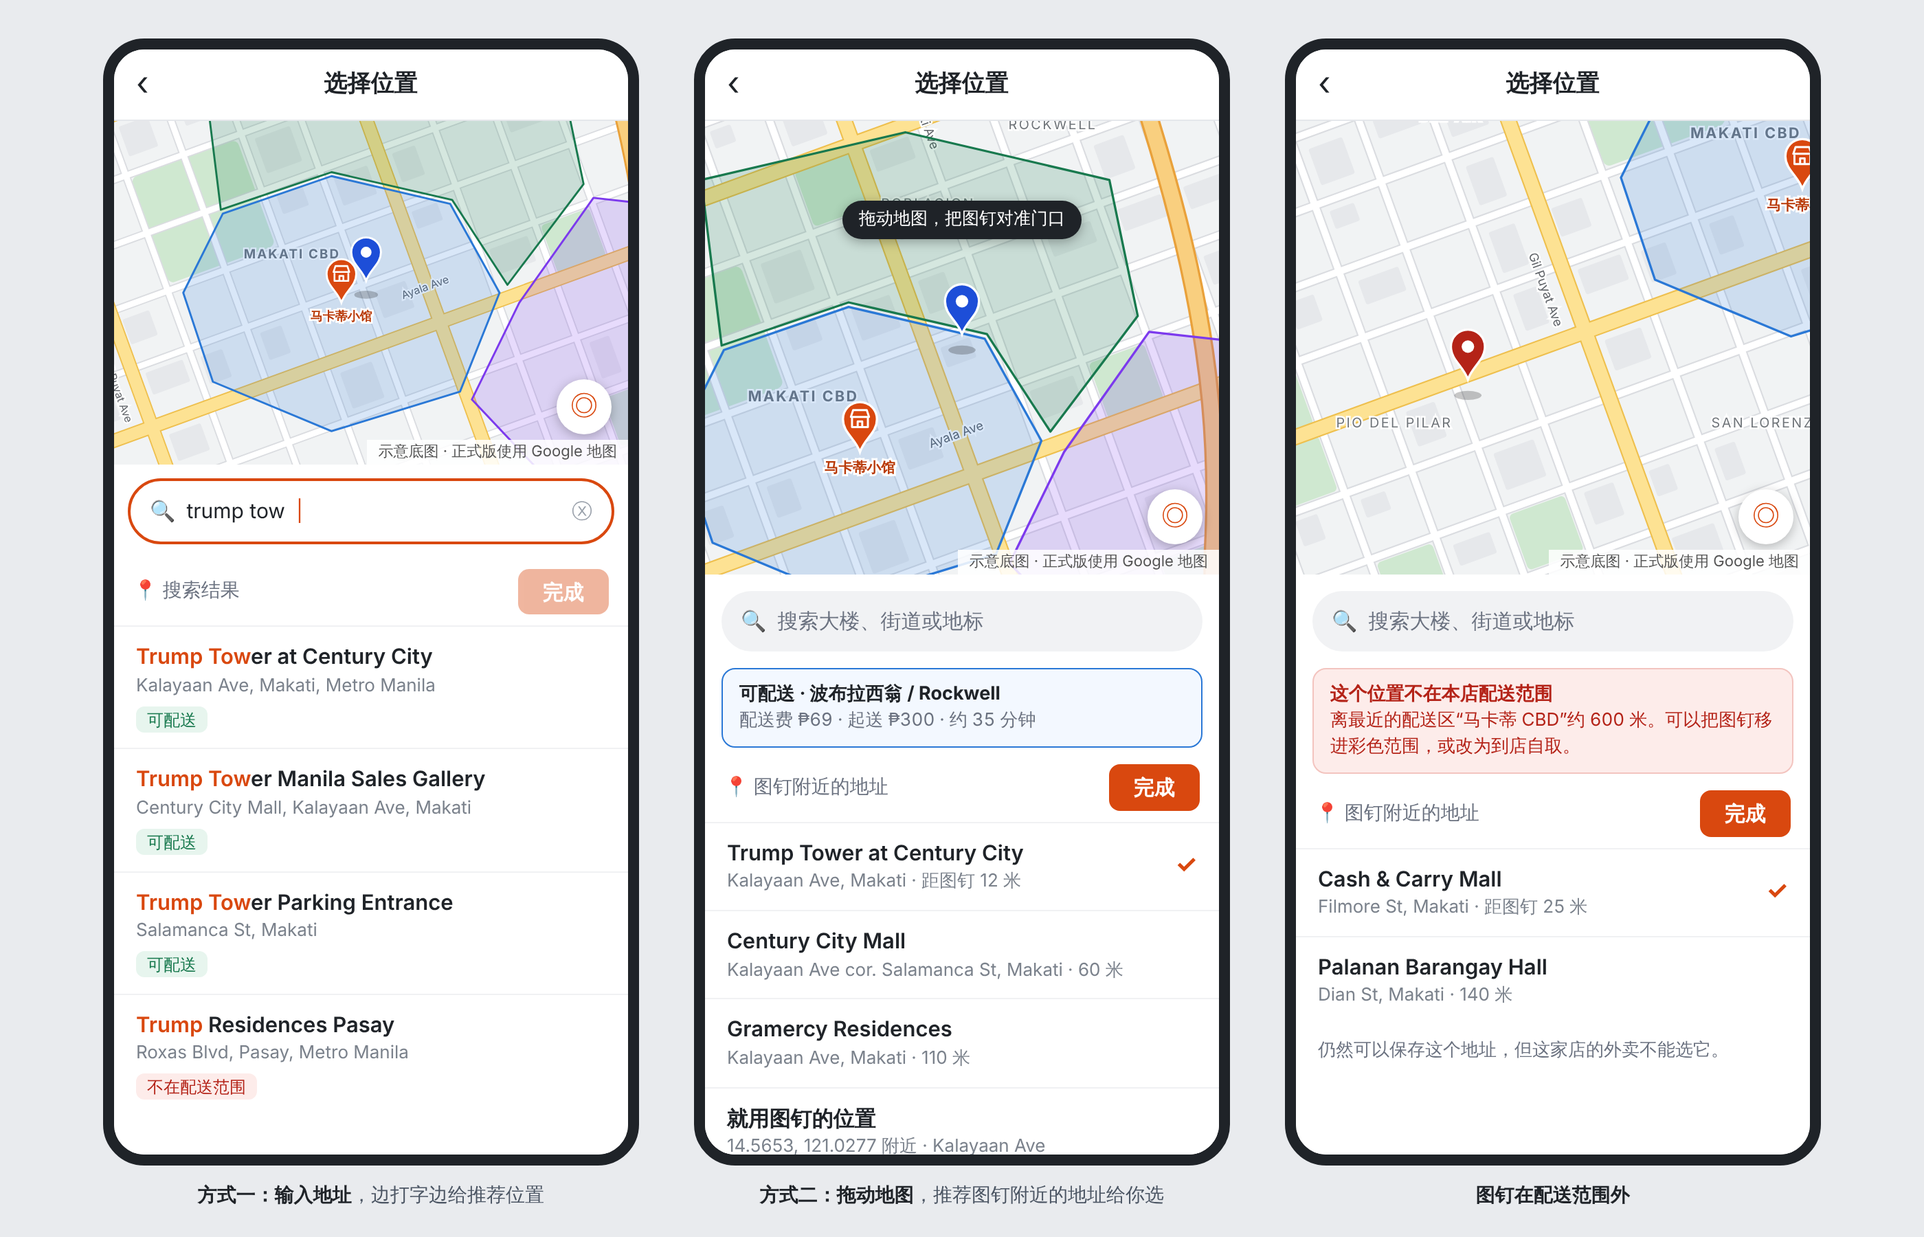
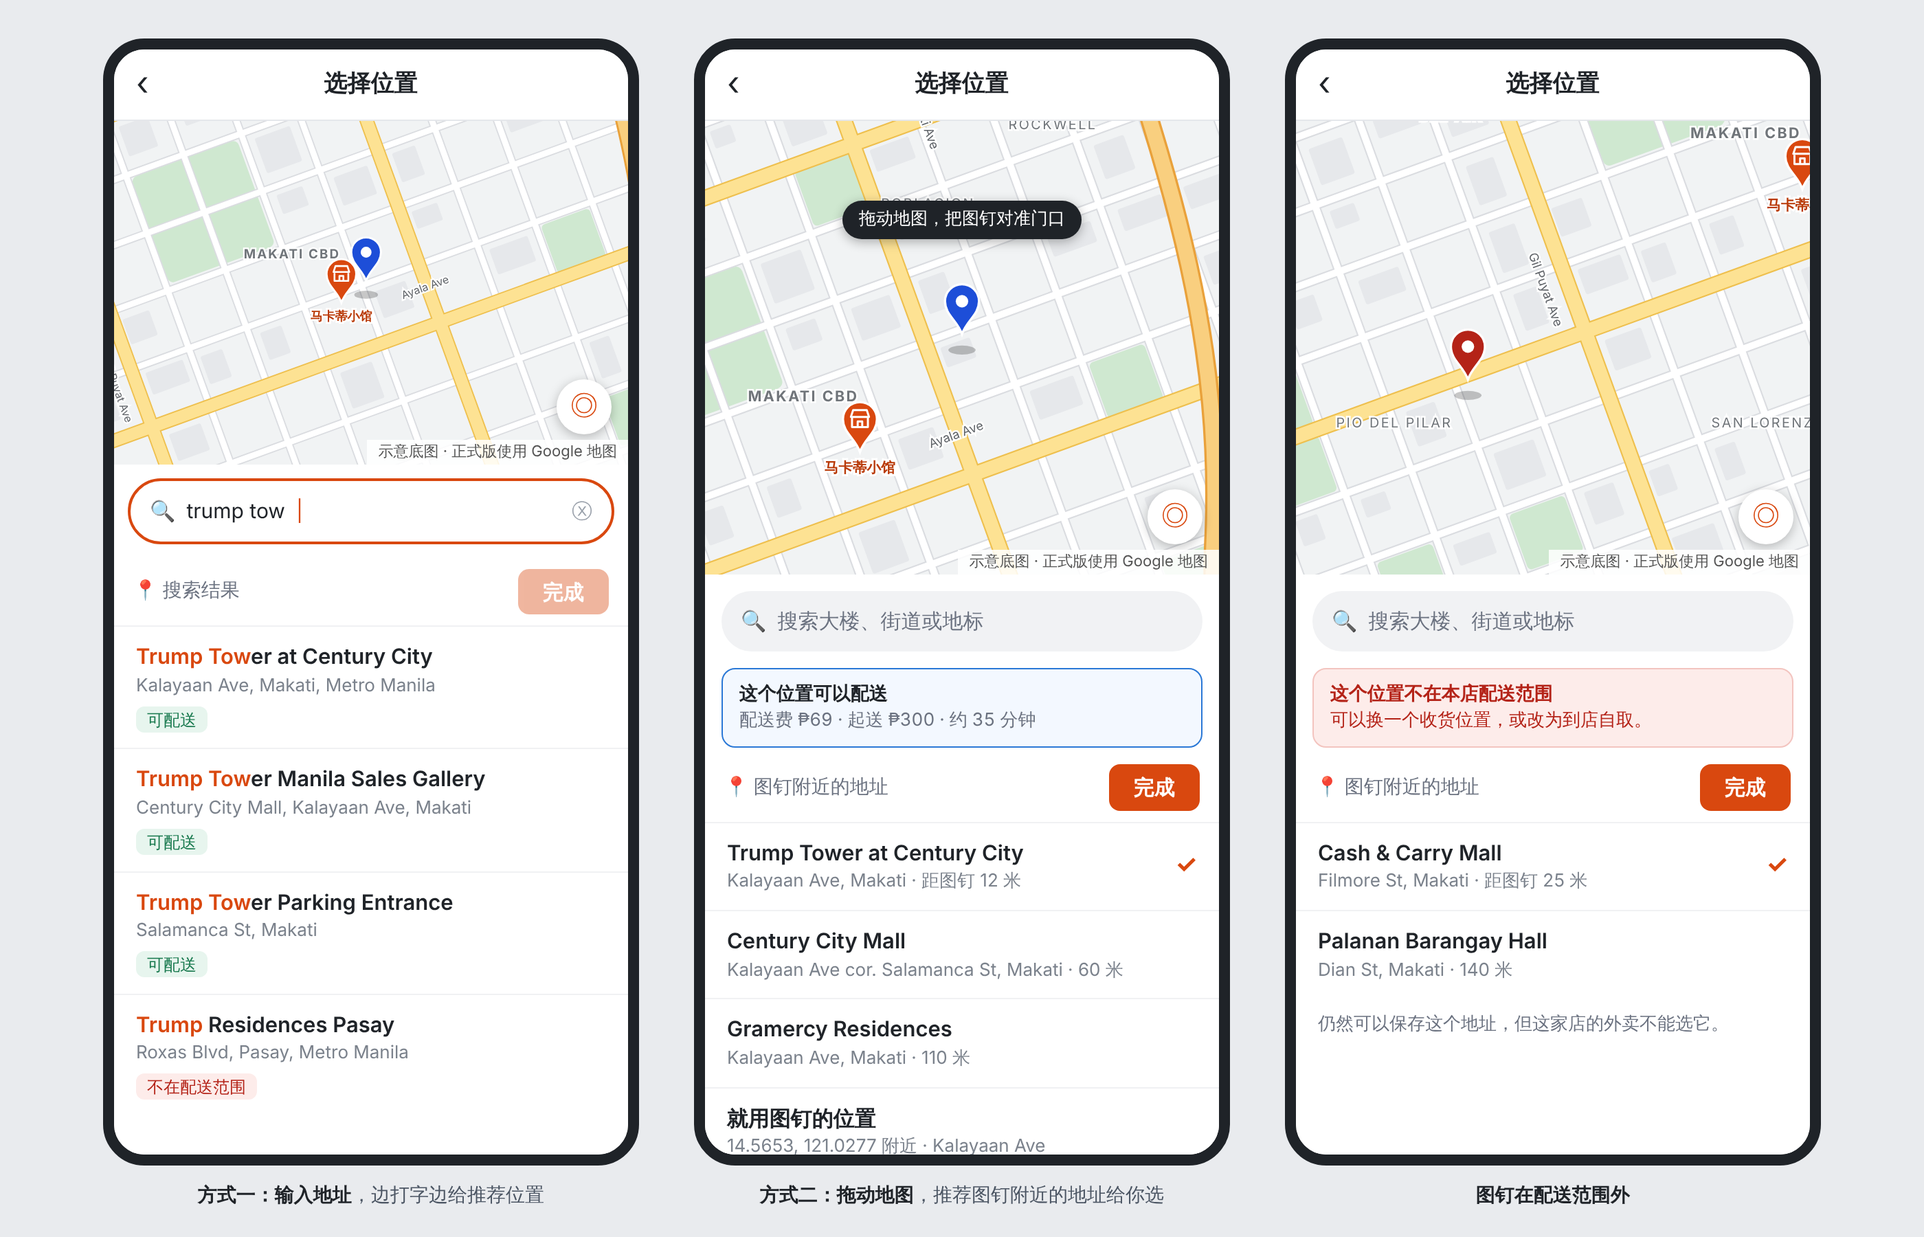
方案 v0.2：顾客端地图不显示配送区的圈、区名和距离
Claude-Session: https://claude.ai/code/session_0171QGWJ256qx9V7u3WcEYX4

diff --git a/docs/checkout-prototype/index.html b/docs/checkout-prototype/index.html
@@ -14,7 +14,6 @@ var maps = [];
 function mapBox(id, h, inner) { return '<div class="map" style="height:' + h + '"><svg class="base" id="' + id + '"></svg>' + (inner || '') + '<div class="attrib">示意底图 · 正式版使用 Google 地图</div></div>'; }
 function drawMap(id, view, at, color) { maps.push(function () {
   var svg = document.getElementById(id); baseMap(svg, view);
-  ZONES.slice().reverse().forEach(function (z) { drawZone(svg, z, { label: false }); });
   pin(svg, STORE, { text: '马卡蒂小馆' }); pin(svg, at, { color: color, icon: 'dot', lift: true });
 }); }
 function phone(body, cap) { return '<div><div class="phone">' + body + '</div><div class="caption">' + cap + '</div></div>'; }
@@ -35,7 +34,7 @@ function login(sent) {
 var ITEMS = [['🍜', '#ffe8cc', '招牌牛肉面', '大份 · 加辣', 1, 268], ['🥟', '#e3f2e1', '鲜肉煎饺', '6 个', 2, 240], ['🥤', '#e0ecff', '冻柠茶', '少冰', 1, 85]];
 function addrCard(sel, pickup) {
   var top = sel
-    ? '<div class="addr row"><div class="grow"><div class="row" style="gap:6px"><span class="tag brand">家</span><b style="font-size:17px">Trump Tower at Century City</b></div><div class="small" style="margin-top:3px">40 楼 4001 · Kalayaan Ave, Makati</div><div class="small muted num">陈先生 +63 917 555 0123</div><div style="margin-top:6px"><span class="tag ok">可配送 · 波布拉西翁 / Rockwell</span></div></div><span class="chev">›</span></div>'
+    ? '<div class="addr row"><div class="grow"><div class="row" style="gap:6px"><span class="tag brand">家</span><b style="font-size:17px">Trump Tower at Century City</b></div><div class="small" style="margin-top:3px">40 楼 4001 · Kalayaan Ave, Makati</div><div class="small muted num">陈先生 +63 917 555 0123</div><div style="margin-top:6px"><span class="tag ok">可配送 · 配送费 ₱69</span></div></div><span class="chev">›</span></div>'
     : '<div class="addr row between"><span class="pick">选择收货地址</span><span class="chev">›</span></div>';
   return '<div class="card">' + top +
     '<div class="opt' + (sel ? ' on' : '') + '"><b>立即配送</b><span class="v">' + (sel ? '约 35 分钟送达' : '请选择地址') + '</span></div>' +
@@ -63,8 +62,8 @@ function checkout(sel) {
 var ADDRS = [
   ['on', '家', 'Trump Tower at Century City', '门牌号：40 楼 4001', '陈先生 +63 917 555 0123', '<span class="tag ok">可配送 · 配送费 ₱69</span>'],
   ['', '公司', 'Ayala Tower One', '门牌号：12 楼 1203', '陈先生 +63 917 555 0123', '<span class="tag ok">可配送 · 配送费 ₱49</span>'],
-  ['', '', 'One Rockwell East Tower', '门牌号：大堂前台', 'Brian +63 917 555 0123', '<span class="tag warn">边界附近 · 按“波布拉西翁 / Rockwell”配送 ₱69</span>'],
-  ['no', '学校', '2658 Tramo St, Pasay', '门牌号：Brgy 51', 'Brian +63 966 802 9171', '<span class="tag bad">不在本店配送范围 · 距最近配送区约 2.1 公里</span>']
+  ['', '', 'One Rockwell East Tower', '门牌号：大堂前台', 'Brian +63 917 555 0123', '<span class="tag ok">可配送 · 配送费 ₱69</span>'],
+  ['no', '学校', '2658 Tramo St, Pasay', '门牌号：Brgy 51', 'Brian +63 966 802 9171', '<span class="tag bad">不在本店配送范围</span>']
 ];
 function addrRows() {
   return ADDRS.map(function (a) {
@@ -81,7 +80,7 @@ function formBody(filled, noPhoto) {
   return '<div class="card" style="padding:4px 14px">' +
     '<div class="frow"><span class="l">收货人</span><div class="grow">' + (f ? '陈' : '<span class="ph">请输入收货人称呼</span>') + '<div class="row small" style="margin-top:10px;gap:6px"><span class="ck on">✓</span>先生 <span class="ck" style="margin-left:14px"></span>女士</div></div></div>' +
     '<div class="frow"><span class="l">联系电话</span><div class="grow num"><b style="font-weight:600">+63</b>&nbsp; 917 555 0123<div class="hint">默认用登录的手机号，可以改成别人的</div></div></div>' +
-    '<div class="frow"><span class="l">收货地址</span><div class="grow">' + (f ? '<b>Trump Tower at Century City</b><div class="small muted">Kalayaan Ave, Makati, Metro Manila</div><div style="margin-top:4px"><span class="tag ok">可配送 · 波布拉西翁 / Rockwell</span></div>' : '<span class="ph">在地图上选择收货地址</span>') + '</div><span class="chev">›</span></div>' +
+    '<div class="frow"><span class="l">收货地址</span><div class="grow">' + (f ? '<b>Trump Tower at Century City</b><div class="small muted">Kalayaan Ave, Makati, Metro Manila</div><div style="margin-top:4px"><span class="tag ok">可配送 · 配送费 ₱69</span></div>' : '<span class="ph">在地图上选择收货地址</span>') + '</div><span class="chev">›</span></div>' +
     '<div class="frow"><span class="l">门牌号</span><div class="grow">' + (f ? '40 楼 4001' : '<span class="ph">楼层、房号（详细地址）</span>') + '</div></div>' +
     '<div class="frow"><span class="l">骑手备注</span><div class="grow">' + (f ? '到了打电话，不要按门铃' : '<span class="ph">（选填）怎么找到你</span>') + '</div></div>' +
     '<div class="frow"><span class="l">微信号</span><div class="grow"><span class="ph">（选填）电话打不通时联系</span></div></div>' +
@@ -111,7 +110,7 @@ function mapPick(mode) {
     drawMap(id, '330 98 480 400', [570, 298], '#1d4ed8');
     h += mapBox(id, '330px', '<div class="bubble" style="top:58px">拖动地图，把图钉对准门口</div><div class="locate">◎</div>') +
       '<div style="background:#fff;flex:1"><div class="srch">🔍 <span class="muted">搜索大楼、街道或地标</span></div>' +
-      '<div class="zonebar ok"><b>可配送 · 波布拉西翁 / Rockwell</b><div class="small muted num">配送费 ₱69 · 起送 ₱300 · 约 35 分钟</div></div>' +
+      '<div class="zonebar ok"><b>这个位置可以配送</b><div class="small muted num">配送费 ₱69 · 起送 ₱300 · 约 35 分钟</div></div>' +
       '<div class="listhd"><span>📍 图钉附近的地址</span><span class="done">完成</span></div>' +
       place('Trump Tower at Century City', 'Kalayaan Ave, Makati · 距图钉 12 米', true) +
       place('Century City Mall', 'Kalayaan Ave cor. Salamanca St, Makati · 60 米') +
@@ -121,7 +120,7 @@ function mapPick(mode) {
     drawMap(id, '20 330 480 400', [185, 570], '#b42318');
     h += mapBox(id, '330px', '<div class="locate">◎</div>') +
       '<div style="background:#fff;flex:1"><div class="srch">🔍 <span class="muted">搜索大楼、街道或地标</span></div>' +
-      '<div class="zonebar bad"><b>这个位置不在本店配送范围</b><div class="small num">离最近的配送区“马卡蒂 CBD”约 600 米。可以把图钉移进彩色范围，或改为到店自取。</div></div>' +
+      '<div class="zonebar bad"><b>这个位置不在本店配送范围</b><div class="small num">可以换一个收货位置，或改为到店自取。</div></div>' +
       '<div class="listhd"><span>📍 图钉附近的地址</span><span class="done">完成</span></div>' +
       place('Cash &amp; Carry Mall', 'Filmore St, Makati · 距图钉 25 米', true) +
       place('Palanan Barangay Hall', 'Dian St, Makati · 140 米') +
@@ -139,14 +138,14 @@ function pc() {
     '<div class="dim" style="top:34px"></div>' +
     '<div class="dialog"><div style="display:flex;flex-direction:column;border-right:1px solid var(--line);background:var(--bg)"><div class="bar"><span class="ttl" style="margin:0;text-align:left">新增收货地址</span><span style="font-size:22px;color:#8b919a;font-weight:400">×</span></div><div style="padding:12px;display:grid;gap:10px;font-size:14px">' + formBody(true, true) + '<div class="btn primary">保存地址</div></div></div>' +
     '<div style="display:flex;flex-direction:column;position:relative">' + mapBox('mpc', '330px', '<div class="bubble" style="top:36px">拖动地图，把图钉对准门口</div><div class="locate">◎</div>') +
-    '<div class="srch">🔍 <span class="muted">搜索大楼、街道或地标</span></div><div class="zonebar ok"><b>可配送 · 波布拉西翁 / Rockwell</b> <span class="small muted num">配送费 ₱69 · 起送 ₱300 · 约 35 分钟</span></div>' +
+    '<div class="srch">🔍 <span class="muted">搜索大楼、街道或地标</span></div><div class="zonebar ok"><b>这个位置可以配送</b> <span class="small muted num">配送费 ₱69 · 起送 ₱300 · 约 35 分钟</span></div>' +
     '<div class="listhd"><span>📍 图钉附近的地址</span></div>' + place('Trump Tower at Century City', 'Kalayaan Ave, Makati · 距图钉 12 米', true) + place('Century City Mall', 'Kalayaan Ave cor. Salamanca St, Makati · 60 米') + '</div></div></div>' +
     '<div class="caption" style="max-width:none;margin-bottom:20px"><b>电脑和 iPad 横屏</b>：结算页分两栏；地址表单和地图并排放在一个对话框里，不用来回跳页面</div>';
 }
 
 var s = new URLSearchParams(location.search).get('s') || 'login', html;
 if (s === 'login') html = '<div class="phones">' + phone(login(false), '<b>① 没登录点“去结算”</b>，先到这个页面。只有短信验证码一种方式') + phone(login(true), '<b>② 验证码已发</b>，60 秒后才能重发。填满 6 位自动登录，回到结算页') + '</div>';
-else if (s === 'checkout') html = '<div class="phones">' + phone(checkout(false), '<b>刚登录、还没选地址</b>：配送费等选了地址再算，提交按钮是灰的') + phone(checkout(true), '<b>选好地址</b>：显示所属配送区、配送费和预计时间') + '</div>';
+else if (s === 'checkout') html = '<div class="phones">' + phone(checkout(false), '<b>刚登录、还没选地址</b>：配送费等选了地址再算，提交按钮是灰的') + phone(checkout(true), '<b>选好地址</b>：显示能不能送、配送费和预计时间') + '</div>';
 else if (s === 'address') html = '<div class="phones">' + phone(addrSheet(), '<b>点“选择收货地址”</b>：每个地址都标出这家店能不能送、配送费多少') + phone(form(false), '<b>点“新增收货地址”</b>') + phone(form(true), '<b>从地图选好位置回来</b>') + '</div>';
 else if (s === 'map') html = '<div class="phones">' + phone(mapPick('search'), '<b>方式一：输入地址</b>，边打字边给推荐位置') + phone(mapPick('drag'), '<b>方式二：拖动地图</b>，推荐图钉附近的地址给你选') + phone(mapPick('out'), '<b>图钉在配送范围外</b>') + '</div>';
 else html = pc();

diff --git a/docs/CUSTOMER_LOGIN_ADDRESS_DESIGN.md b/docs/CUSTOMER_LOGIN_ADDRESS_DESIGN.md
@@ -1,6 +1,8 @@
-# 顾客登录和收货地址 · 优化方案 v0.1
+# 顾客登录和收货地址 · 优化方案 v0.2
 
 2026-11-22 · 待 brian 确认。本稿只是方案和效果图，还没有写代码。
+
+v0.2 改动：按 brian 的要求，顾客看到的地图上不画配送区的圈，也不显示配送区的名字和离配送区多远。顾客只看到“能不能送”和配送费，见第 4、6、9 节。
 
 本稿是 [DESIGN.md](DESIGN.md) 和 [MAP_ZONES_DESIGN.md](MAP_ZONES_DESIGN.md) 的补充，讲顾客外卖下单流程的五处改动：短信验证码登录、结算页改版、收货地址列表、新增收货地址、地图选点。
 
@@ -70,7 +72,7 @@
 
 从上到下：
 
-1. **收货地址卡**。没选时显示橙色的“选择收货地址 ›”。选好后显示标签、地点名、门牌号、收货人和电话，以及一行“可配送 · 某某配送区”。点一下打开地址列表（第 4 节）。登录后如果有默认地址而且这家店能送，自动选上。
+1. **收货地址卡**。没选时显示橙色的“选择收货地址 ›”。选好后显示标签、地点名、门牌号、收货人和电话，以及一行“可配送 · 配送费 ₱xx”。点一下打开地址列表（第 4 节）。登录后如果有默认地址而且这家店能送，自动选上。
 2. **立即配送 / 预约配送**。两个大按钮代替现在的下拉框。选了地址后，“立即配送”显示预计送达时间（配送区里填了才显示）；点“预约配送”从底部弹出可选时间。门店打烊时“立即配送”变灰，只能预约。
 3. **订单卡**。店名，右上角标“门店配送”。菜品按购物篮分组，每行有小图、名称、规格、数量、金额，每个篮子有小计。下面是包装费、配送费、优惠活动（只显示这单真正享受到的活动，比如“满 500 减 50”）、订单备注、付款方式（货到付款）。
 4. **底部黑色条**。左边是合计和“已优惠 ₱xx”，右边是“提交订单”。
@@ -88,9 +90,9 @@
 
 - 每行：单选圈、标签（家 / 公司 / 学校）、地点名、门牌号、收货人和电话、右边的编辑按钮。
 - 每行下面有一条**针对当前这家店**的状态，这是和配送区判断衔接的地方：
-  - 绿色“可配送 · 配送费 ₱69”：在配送区内。
-  - 黄色“边界附近 · 按‘某某区’配送 ₱69”：在圈外但在容差内（默认 200 米，门店可改），按最近的区算。
-  - 红色“不在本店配送范围 · 距最近配送区约 x 公里”：整行变灰，不能选。
+  - 绿色“可配送 · 配送费 ₱69”：在配送区内，或者在圈外但在容差内（默认 200 米，门店可改，按最近的区算）。顾客看到的都是同一句话，不区分这两种情况。
+  - 红色“不在本店配送范围”：整行变灰，不能选。
+  - 不显示配送区的名字，也不显示离配送区多远。
 - 排序：能送的在前，其中默认地址第一，其余按最近用过的时间。
 - 参考图里的“当前地址长时间未使用，请注意”不做，换成上面的配送状态，对顾客更有用。
 - 底部“新增收货地址”。点编辑按钮进入同一个表单，可以改也可以删除。
@@ -126,7 +128,9 @@
 
 **方式二：拖动地图。** 拖动地图让图钉对准门口，松手后列表换成“图钉附近的地址”（最多 5 条，按距离排），默认选中最近的一条，顾客可以点别的。最后一条固定是“就用图钉的位置”，给地图上查不到名字的地方用。右下角的定位按钮可以跳到手机当前位置。
 
-不管哪种方式，列表上方都有一条配送状态：蓝色“可配送 · 某某区 · 配送费 · 起送 · 预计时间”，或红色“这个位置不在本店配送范围，离最近的配送区约 x 米”。地图上同时画出这家店的彩色配送区，顾客一眼能看出往哪边移。点“完成”回到表单。
+不管哪种方式，列表上方都有一条配送状态：蓝色“这个位置可以配送 · 配送费 · 起送 · 预计时间”，或红色“这个位置不在本店配送范围，可以换一个收货位置，或改为到店自取”。点“完成”回到表单。
+
+**地图上不画配送区。** 顾客看到的只有地图、门店位置和自己的图钉。配送区的形状、名字、边界在哪、离边界多远，都只在商家端能看到。能不能送由服务器判断后只返回结果，配送区的形状不会发到顾客的浏览器里。
 
 **保存的是图钉的坐标**，不是地点的名字。配送区判断用的就是这个坐标，和现在“送到哪里”用同一个判断接口，容差规则完全一致。所以顾客选了大楼名字后再把图钉微调到侧门，系统按侧门的位置算。
 
@@ -168,7 +172,7 @@
 
 ## 9. 对现有功能的影响
 
-- 门店页上现有的“送到哪里”弹层保留，没登录也能用它先看能不能送、配送费多少。登录后在结算页选的地址以地址簿为准。
+- 门店页上现有的“送到哪里”弹层保留，没登录也能用它先看能不能送、配送费多少。登录后在结算页选的地址以地址簿为准。这个弹层现在会画出彩色配送区、显示区名和“离最近的配送区约 x 米”，按 v0.2 的要求一并去掉；门店信息接口也不再把配送区的形状发给顾客。
 - 商家订单页、小票、骑手送餐页：多显示先生 / 女士、微信号、Telegram、门口照片（有才显示）。其余不变。
 - 顾客有了账号，以后可以接着做“我的订单”和上次没做的“收藏店铺”，不在本稿范围。
 - 现有的浏览器测试（外卖流程等）走的是结算页里验证手机号，实现时要一起改。
@@ -178,7 +182,7 @@
 - 新表 `customers`（手机号唯一、创建时间、最后登录时间）。`customer_sessions` 加 `customer_id`。
 - 新表 `customer_addresses`：收货人、称谓、电话、地点名、街道、经纬度、门牌、备注、微信、Telegram、标签、照片、是否默认、最后使用时间、删除时间。
 - `orders` 加 `customer_id`，以及称谓、微信、Telegram、照片的副本；经纬度和文字地址沿用现有字段。
-- 接口：`/customer/addresses` 的增删改查；列表可带 `store=slug`，后端用现有的 `matchZone` 给每个地址算出配送状态。报价和下单接口接受 `address_id`，后端取地址的坐标做判断，不信任前端传的配送区。
+- 接口：`/customer/addresses` 的增删改查；列表可带 `store=slug`，后端用现有的 `matchZone` 给每个地址算出配送状态，只返回能否配送、配送费、起送金额、预计时间，不返回区名、距离和多边形。报价和下单接口接受 `address_id`，后端取地址的坐标做判断，不信任前端传的配送区。
 - 验证码接口沿用 `/otp/request`、`/otp/verify`，加每日上限；新增 `/customer/logout`。
 - 前端：新页面 `AccountLogin.vue`、`AddressSheet.vue`、`AddressForm.vue`、`PlacePicker.vue`；`maps.ts` 的地图适配器加“输入推荐”和“附近地点”两个方法，测试用的假地图也实现这两个方法。
 - 照片沿用送达拍照的存储方式，地址删除后 30 天清理。
@@ -207,4 +211,5 @@
 | 5 | 门口照片 | 做，放在第四批 |
 | 6 | 送不到的地址能不能保存 | 能保存（别的店也许能送），但在这家店的列表里是灰的、不能选 |
 | 7 | 每天验证码上限 | 每个手机号 10 条，每个网络地址 30 条。先不加图形验证码，被刷了再加 |
-| 8 | Places API | 由你在 Google 后台启用。没启用时功能自动退回简化版（见 6.3），不会报错 |
+| 8 | 门店页现有的“送到哪里”弹层 | 和新的地图选点页一样，去掉配送区的圈、区名和距离 |
+| 9 | Places API | 由你在 Google 后台启用。没启用时功能自动退回简化版（见 6.3），不会报错 |
